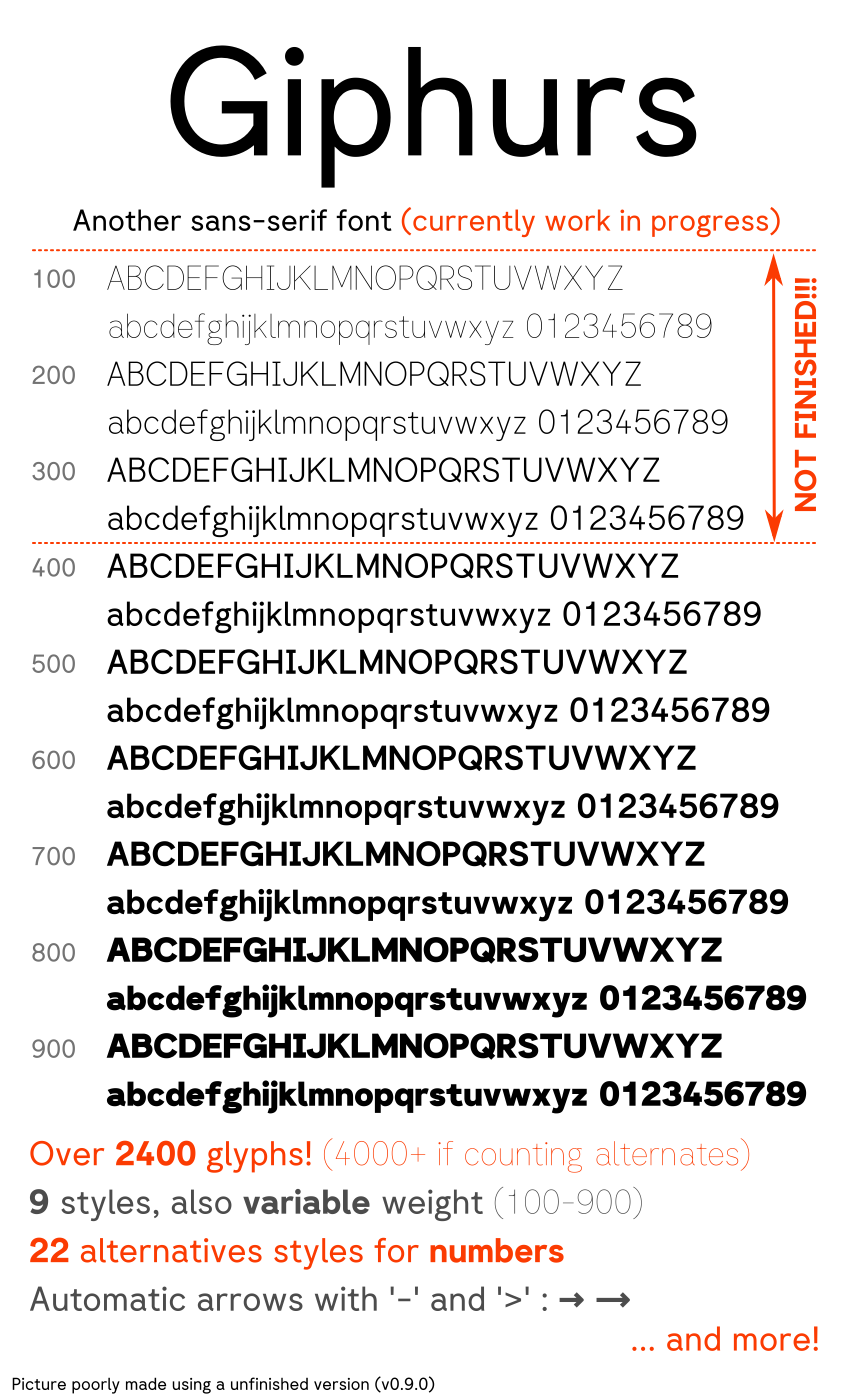
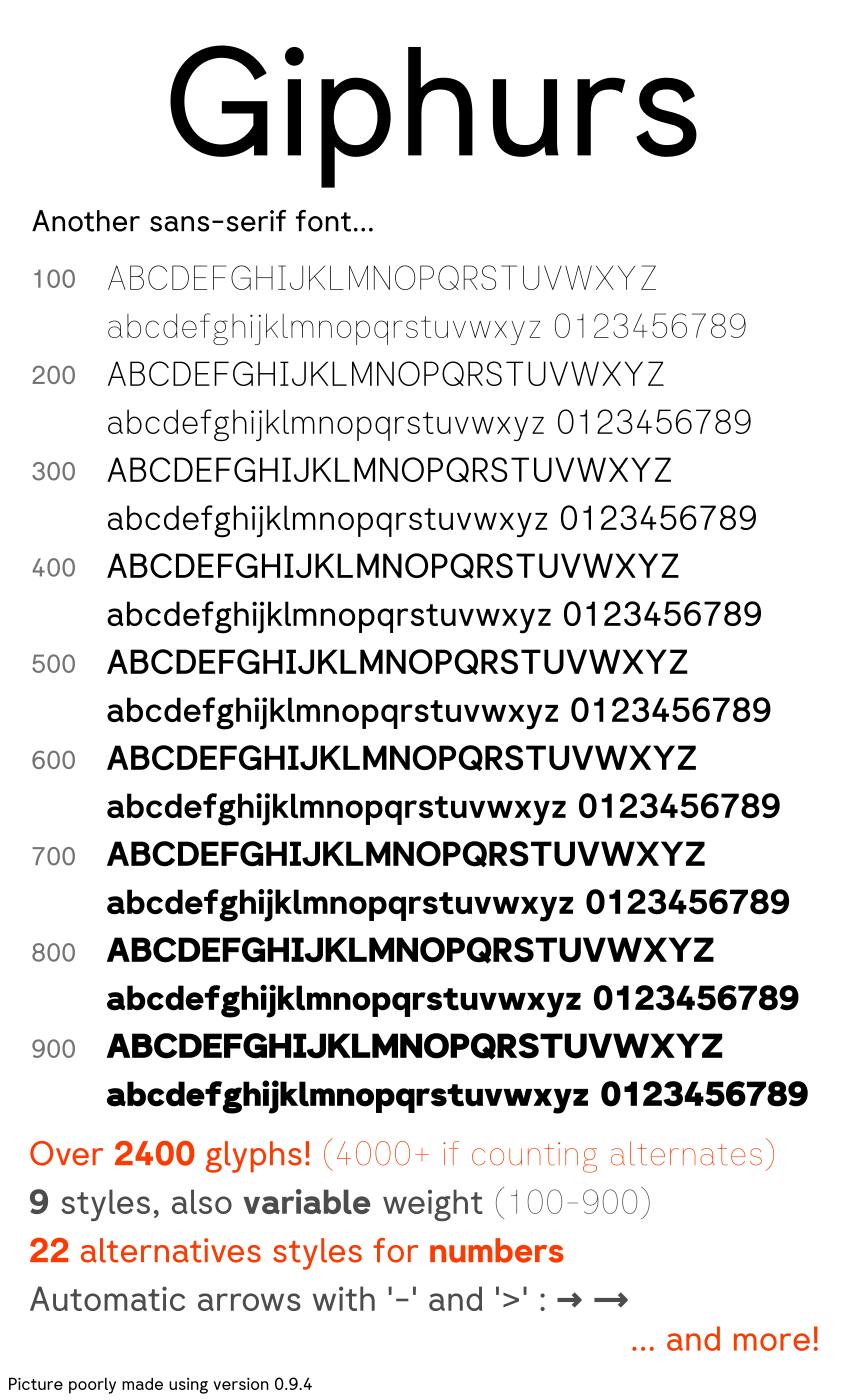
Update README

diff --git a/README.md b/README.md
@@ -2,17 +2,9 @@
 
 Your average Arial/Helvetica/Circular on budget, made with [Fontforge](https://fontforge.org/en-US/).
 
-![It was supposed to be a preview here](documentation/quick_preview_v3.png)
-
-# ⚠ Important
-
-**The weights below 400 (Thin, ExtraLight, Light) aren't fully implemented yet.** As of version 0.9.3 only small caps aren't implemented yet), but if you don't use them it will most likely work correctly.
-
-Note that those weights are only available for versions `0.9.0+` (marked as "pre-releases")
-
 # Status of the project
 
-This project **isn't complete and is under development**. Things may change at any time.
+The font itself works fine, but there's still stuff to do, and things may change at any time.
 
 The end goal is to upload this font on [Google Fonts](https://fonts.google.com/).
 
@@ -20,7 +12,6 @@ I'm aware that there's already some issues, for example the font version being i
 
 # TODO list
 
-* Implement weight 100 (Thin).
 * Add italic.
 * Fix other small problems that [Font Bakery](https://github.com/googlefonts/fontbakery) complains about.
 * Improve font documentation (if it even exists).
